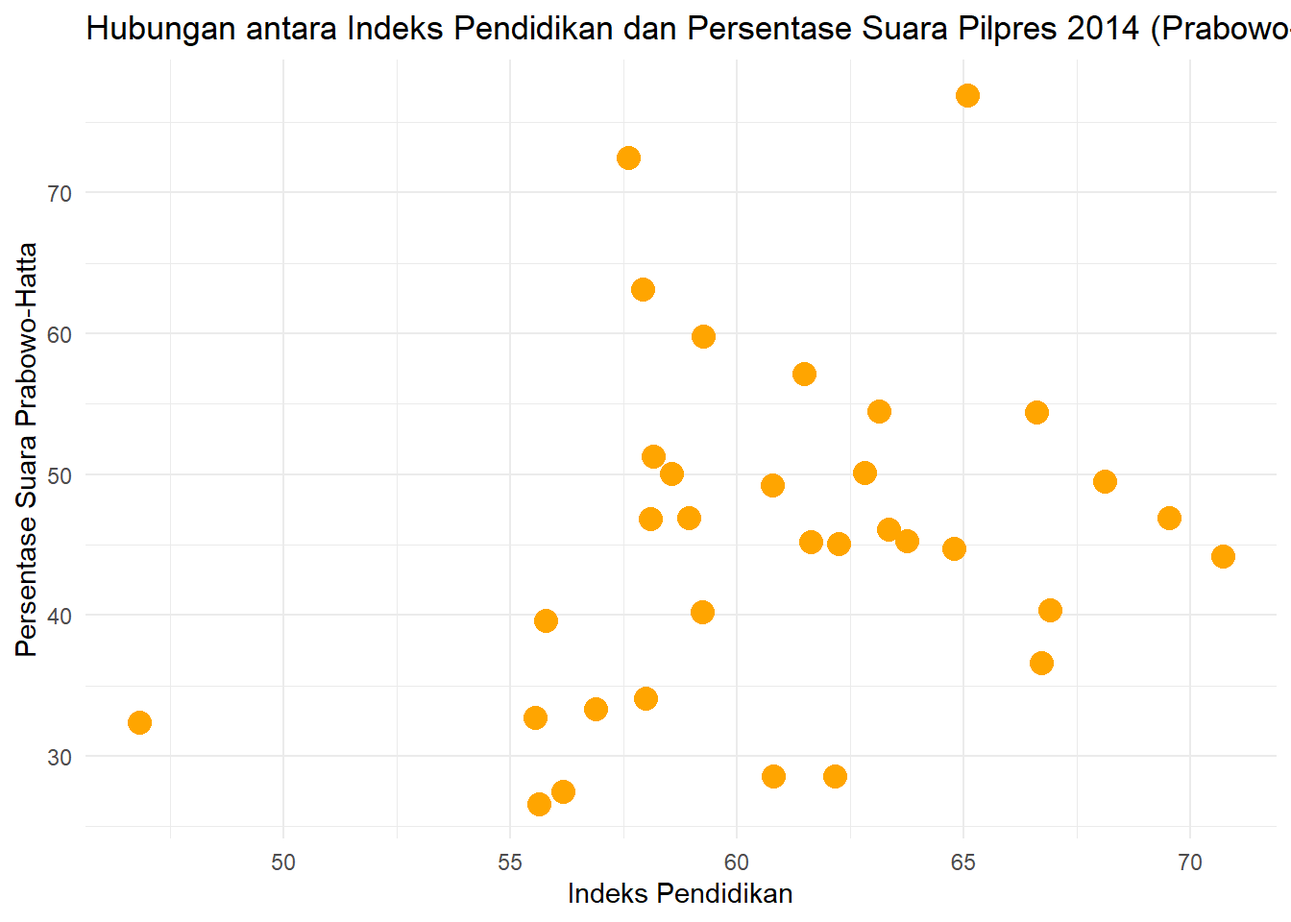
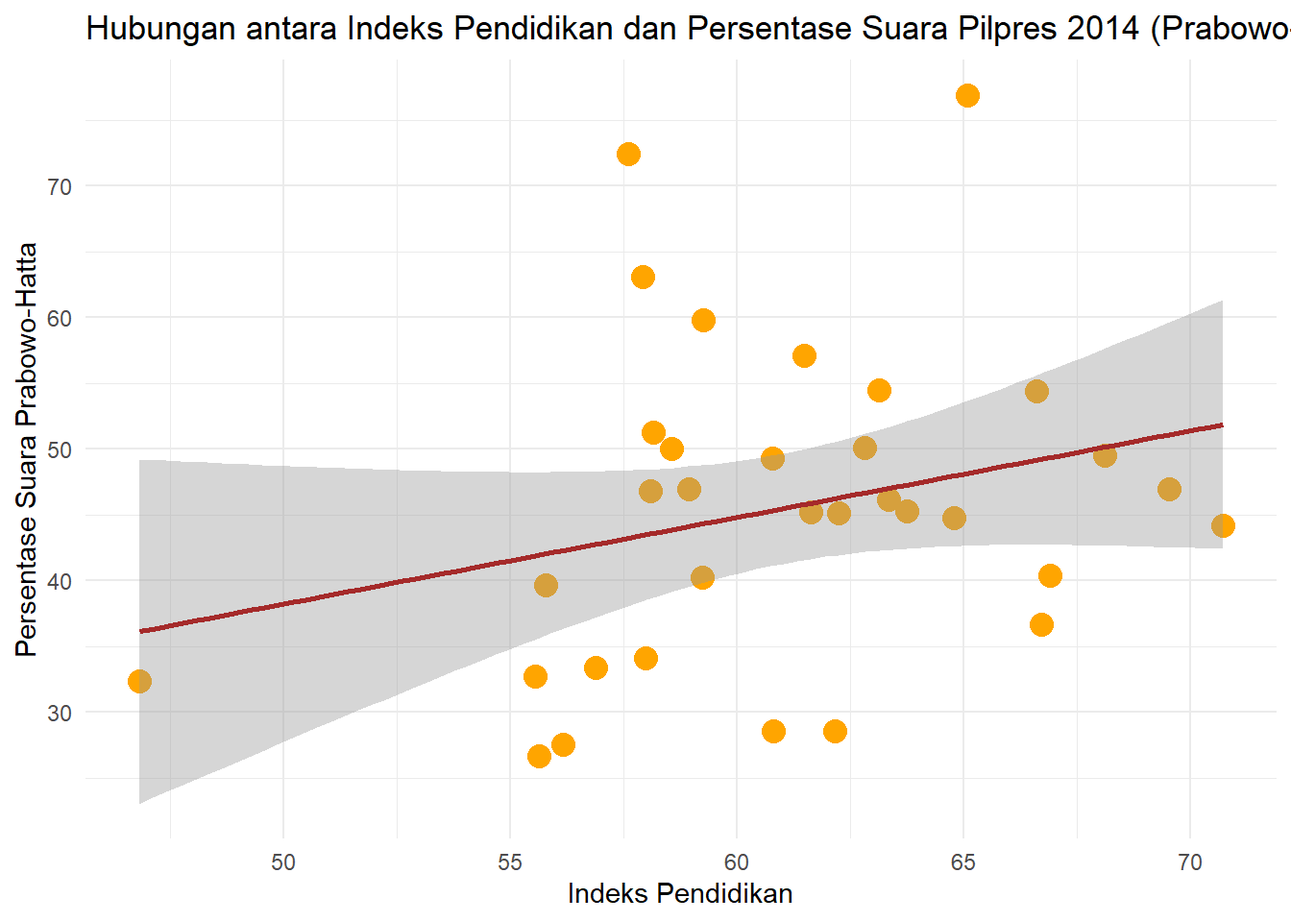
Add files via upload

diff --git a/index.html b/index.html
@@ -193,9 +193,9 @@ window.Quarto = {
 <span id="cb1-5"><a href="#cb1-5" aria-hidden="true" tabindex="-1"></a><span class="fu">library</span>(<span class="st">'broom'</span>)</span>
 <span id="cb1-6"><a href="#cb1-6" aria-hidden="true" tabindex="-1"></a><span class="fu">library</span>(<span class="st">'ggpubr'</span>)</span>
 <span id="cb1-7"><a href="#cb1-7" aria-hidden="true" tabindex="-1"></a><span class="fu">library</span>(<span class="st">'car'</span>)</span>
-<span id="cb1-8"><a href="#cb1-8" aria-hidden="true" tabindex="-1"></a><span class="fu">library</span>(<span class="st">'carData'</span>)</span></code><button title="Copy to Clipboard" class="code-copy-button"><i class="bi"></i></button></pre></div>
+<span id="cb1-8"><a href="#cb1-8" aria-hidden="true" tabindex="-1"></a><span class="fu">library</span>(<span class="st">'carData'</span>)</span>
+<span id="cb1-9"><a href="#cb1-9" aria-hidden="true" tabindex="-1"></a><span class="fu">library</span>(<span class="st">'lattice'</span>)</span></code><button title="Copy to Clipboard" class="code-copy-button"><i class="bi"></i></button></pre></div>
 </div>
-<p>── Attaching core tidyverse packages ────────────────────────────────────── tidyverse 2.0.0 ── ✔ dplyr 1.1.4 ✔ readr 2.1.4 ✔ forcats 1.0.0 ✔ stringr 1.5.0 ✔ ggplot2 3.4.4 ✔ tibble 3.2.1 ✔ lubridate 1.9.2 ✔ tidyr 1.3.0 ✔ purrr 1.0.2</p>
 </section>
 </section>
 <section id="studi-pustaka" class="level2" data-number="2">
@@ -608,9 +608,13 @@ window.Quarto = {
 <div class="sourceCode cell-code" id="cb4"><pre class="sourceCode r code-with-copy"><code class="sourceCode r"><span id="cb4-1"><a href="#cb4-1" aria-hidden="true" tabindex="-1"></a><span class="co">#scatter plor dengan ggplot2</span></span>
 <span id="cb4-2"><a href="#cb4-2" aria-hidden="true" tabindex="-1"></a><span class="fu">ggplot</span>(<span class="at">data=</span>dat, <span class="fu">aes</span>(<span class="at">x =</span> Edu, <span class="at">y =</span> PrbwHt)) <span class="sc">+</span></span>
 <span id="cb4-3"><a href="#cb4-3" aria-hidden="true" tabindex="-1"></a>  <span class="fu">geom_point</span>(<span class="at">color=</span><span class="st">"orange"</span>,<span class="at">size=</span><span class="dv">4</span>) <span class="sc">+</span></span>
-<span id="cb4-4"><a href="#cb4-4" aria-hidden="true" tabindex="-1"></a>  <span class="fu">labs</span>(<span class="at">x =</span> <span class="st">"Indeks Pendidikan"</span>, <span class="at">y =</span> <span class="st">"Persentase Suara Prabowo-Hatta"</span>, </span>
-<span id="cb4-5"><a href="#cb4-5" aria-hidden="true" tabindex="-1"></a>       <span class="at">title =</span> <span class="st">"Hubungan antara Indeks Pendidikan dan Persentase Suara Pilpres 2014 (Prabowo-Hatta)"</span>) <span class="sc">+</span></span>
-<span id="cb4-6"><a href="#cb4-6" aria-hidden="true" tabindex="-1"></a>  <span class="fu">theme_minimal</span>()</span></code><button title="Copy to Clipboard" class="code-copy-button"><i class="bi"></i></button></pre></div>
+<span id="cb4-4"><a href="#cb4-4" aria-hidden="true" tabindex="-1"></a>  <span class="fu">geom_smooth</span>(<span class="at">method =</span> <span class="st">"lm"</span>,<span class="at">color=</span><span class="st">'brown'</span>) <span class="sc">+</span></span>
+<span id="cb4-5"><a href="#cb4-5" aria-hidden="true" tabindex="-1"></a>  <span class="fu">labs</span>(<span class="at">x =</span> <span class="st">"Indeks Pendidikan"</span>, <span class="at">y =</span> <span class="st">"Persentase Suara Prabowo-Hatta"</span>, </span>
+<span id="cb4-6"><a href="#cb4-6" aria-hidden="true" tabindex="-1"></a><span class="at">title =</span> <span class="st">"Hubungan antara Indeks Pendidikan dan Persentase Suara Pilpres 2014 (Prabowo-Hatta)"</span>) <span class="sc">+</span></span>
+<span id="cb4-7"><a href="#cb4-7" aria-hidden="true" tabindex="-1"></a>  <span class="fu">theme_minimal</span>()</span></code><button title="Copy to Clipboard" class="code-copy-button"><i class="bi"></i></button></pre></div>
+<div class="cell-output cell-output-stderr">
+<pre><code>`geom_smooth()` using formula = 'y ~ x'</code></pre>
+</div>
 <div class="cell-output-display">
 <div id="fig-mpg" class="quarto-figure quarto-figure-center quarto-float anchored">
 <figure class="quarto-float quarto-float-fig figure">
@@ -628,12 +632,16 @@ Figure&nbsp;1: Hubungan antara Indeks Pendidikan dan Persentase Suara Pasangan 0
 <section id="paslon-02-jokowi-jusuf-kalla" class="level4" data-number="3.3.2">
 <h4 data-number="3.3.2" class="anchored" data-anchor-id="paslon-02-jokowi-jusuf-kalla"><span class="header-section-number">3.3.2</span> Paslon 02 (Jokowi-Jusuf Kalla)</h4>
 <div class="cell">
-<div class="sourceCode cell-code" id="cb5"><pre class="sourceCode r code-with-copy"><code class="sourceCode r"><span id="cb5-1"><a href="#cb5-1" aria-hidden="true" tabindex="-1"></a><span class="co">#scatter plor dengan ggplot2</span></span>
-<span id="cb5-2"><a href="#cb5-2" aria-hidden="true" tabindex="-1"></a><span class="fu">ggplot</span>(<span class="at">data=</span>dat, <span class="fu">aes</span>(<span class="at">x =</span> Edu, <span class="at">y =</span> JkwJk)) <span class="sc">+</span></span>
-<span id="cb5-3"><a href="#cb5-3" aria-hidden="true" tabindex="-1"></a>  <span class="fu">geom_point</span>(<span class="at">color=</span><span class="st">"red"</span>,<span class="at">size=</span><span class="dv">4</span>) <span class="sc">+</span></span>
-<span id="cb5-4"><a href="#cb5-4" aria-hidden="true" tabindex="-1"></a>  <span class="fu">labs</span>(<span class="at">x =</span> <span class="st">"Indeks Pendidikan"</span>, <span class="at">y =</span> <span class="st">"Persentase Suara Jokowi-JK"</span>, </span>
-<span id="cb5-5"><a href="#cb5-5" aria-hidden="true" tabindex="-1"></a>       <span class="at">title =</span> <span class="st">"Hubungan antara Indeks Pendidikan dan Persentase Suara Pilpres 2014 (Jokowi-JK)"</span>) <span class="sc">+</span></span>
-<span id="cb5-6"><a href="#cb5-6" aria-hidden="true" tabindex="-1"></a>  <span class="fu">theme_minimal</span>()</span></code><button title="Copy to Clipboard" class="code-copy-button"><i class="bi"></i></button></pre></div>
+<div class="sourceCode cell-code" id="cb6"><pre class="sourceCode r code-with-copy"><code class="sourceCode r"><span id="cb6-1"><a href="#cb6-1" aria-hidden="true" tabindex="-1"></a><span class="co">#scatter plor dengan ggplot2</span></span>
+<span id="cb6-2"><a href="#cb6-2" aria-hidden="true" tabindex="-1"></a><span class="fu">ggplot</span>(<span class="at">data=</span>dat, <span class="fu">aes</span>(<span class="at">x =</span> Edu, <span class="at">y =</span> JkwJk)) <span class="sc">+</span></span>
+<span id="cb6-3"><a href="#cb6-3" aria-hidden="true" tabindex="-1"></a>  <span class="fu">geom_point</span>(<span class="at">color=</span><span class="st">"red"</span>,<span class="at">size=</span><span class="dv">4</span>) <span class="sc">+</span></span>
+<span id="cb6-4"><a href="#cb6-4" aria-hidden="true" tabindex="-1"></a>  <span class="fu">geom_smooth</span>(<span class="at">method =</span> <span class="st">"lm"</span>,<span class="at">color=</span><span class="st">'blue'</span>) <span class="sc">+</span></span>
+<span id="cb6-5"><a href="#cb6-5" aria-hidden="true" tabindex="-1"></a>  <span class="fu">labs</span>(<span class="at">x =</span> <span class="st">"Indeks Pendidikan"</span>, <span class="at">y =</span> <span class="st">"Persentase Suara Jokowi-JK"</span>, </span>
+<span id="cb6-6"><a href="#cb6-6" aria-hidden="true" tabindex="-1"></a>       <span class="at">title =</span> <span class="st">"Hubungan antara Indeks Pendidikan dan Persentase Suara Pilpres 2014 (Jokowi-JK)"</span>) <span class="sc">+</span></span>
+<span id="cb6-7"><a href="#cb6-7" aria-hidden="true" tabindex="-1"></a>  <span class="fu">theme_minimal</span>()</span></code><button title="Copy to Clipboard" class="code-copy-button"><i class="bi"></i></button></pre></div>
+<div class="cell-output cell-output-stderr">
+<pre><code>`geom_smooth()` using formula = 'y ~ x'</code></pre>
+</div>
 <div class="cell-output-display">
 <div id="fig-mpg2" class="quarto-figure quarto-figure-center quarto-float anchored">
 <figure class="quarto-float quarto-float-fig figure">
@@ -654,16 +662,16 @@ Figure&nbsp;2: Hubungan antara Indeks Pendidikan dan Persentase Suara Pasangan 0
 <section id="paslon-01-prabowo-hatta-1" class="level4" data-number="3.4.1">
 <h4 data-number="3.4.1" class="anchored" data-anchor-id="paslon-01-prabowo-hatta-1"><span class="header-section-number">3.4.1</span> Paslon 01 (Prabowo-Hatta)</h4>
 <div class="cell">
-<div class="sourceCode cell-code" id="cb6"><pre class="sourceCode r code-with-copy"><code class="sourceCode r"><span id="cb6-1"><a href="#cb6-1" aria-hidden="true" tabindex="-1"></a><span class="fu">library</span>(<span class="st">'readxl'</span>)</span>
-<span id="cb6-2"><a href="#cb6-2" aria-hidden="true" tabindex="-1"></a>dat<span class="ot">&lt;-</span><span class="fu">read_excel</span>(<span class="st">"C:/Users/yusri/Documents/UAS Metopel/data uas.xlsx"</span>)</span>
-<span id="cb6-3"><a href="#cb6-3" aria-hidden="true" tabindex="-1"></a></span>
-<span id="cb6-4"><a href="#cb6-4" aria-hidden="true" tabindex="-1"></a>reg1<span class="ot">&lt;-</span><span class="fu">lm</span>(PrbwHt<span class="sc">~</span>Edu,<span class="at">data=</span>dat)</span>
-<span id="cb6-5"><a href="#cb6-5" aria-hidden="true" tabindex="-1"></a><span class="co">#Membuat Error</span></span>
-<span id="cb6-6"><a href="#cb6-6" aria-hidden="true" tabindex="-1"></a>dat<span class="sc">$</span>u<span class="ot">&lt;-</span><span class="fu">resid</span>(reg1)</span>
-<span id="cb6-7"><a href="#cb6-7" aria-hidden="true" tabindex="-1"></a><span class="fu">plot</span>(dat<span class="sc">$</span>PrbwHt,dat<span class="sc">$</span>u,<span class="at">xlab=</span><span class="st">"Tingkat Pendidikan"</span>,<span class="at">ylab=</span><span class="st">"Persentase Suara Prabowo-Hatta"</span>)</span>
-<span id="cb6-8"><a href="#cb6-8" aria-hidden="true" tabindex="-1"></a><span class="fu">abline</span>(<span class="at">h=</span><span class="dv">0</span>,<span class="at">col=</span><span class="st">"orange"</span>,</span>
-<span id="cb6-9"><a href="#cb6-9" aria-hidden="true" tabindex="-1"></a>  <span class="at">lty=</span><span class="st">"dashed"</span>,</span>
-<span id="cb6-10"><a href="#cb6-10" aria-hidden="true" tabindex="-1"></a>  <span class="at">lwd=</span><span class="st">"3"</span>)</span></code><button title="Copy to Clipboard" class="code-copy-button"><i class="bi"></i></button></pre></div>
+<div class="sourceCode cell-code" id="cb8"><pre class="sourceCode r code-with-copy"><code class="sourceCode r"><span id="cb8-1"><a href="#cb8-1" aria-hidden="true" tabindex="-1"></a><span class="fu">library</span>(<span class="st">'readxl'</span>)</span>
+<span id="cb8-2"><a href="#cb8-2" aria-hidden="true" tabindex="-1"></a>dat<span class="ot">&lt;-</span><span class="fu">read_excel</span>(<span class="st">"C:/Users/yusri/Documents/UAS Metopel/data uas.xlsx"</span>)</span>
+<span id="cb8-3"><a href="#cb8-3" aria-hidden="true" tabindex="-1"></a></span>
+<span id="cb8-4"><a href="#cb8-4" aria-hidden="true" tabindex="-1"></a>reg1<span class="ot">&lt;-</span><span class="fu">lm</span>(PrbwHt<span class="sc">~</span>Edu,<span class="at">data=</span>dat)</span>
+<span id="cb8-5"><a href="#cb8-5" aria-hidden="true" tabindex="-1"></a><span class="co">#Membuat Error</span></span>
+<span id="cb8-6"><a href="#cb8-6" aria-hidden="true" tabindex="-1"></a>dat<span class="sc">$</span>u<span class="ot">&lt;-</span><span class="fu">resid</span>(reg1)</span>
+<span id="cb8-7"><a href="#cb8-7" aria-hidden="true" tabindex="-1"></a><span class="fu">plot</span>(dat<span class="sc">$</span>PrbwHt,dat<span class="sc">$</span>u,<span class="at">xlab=</span><span class="st">"Tingkat Pendidikan"</span>,<span class="at">ylab=</span><span class="st">"Persentase Suara Prabowo-Hatta"</span>)</span>
+<span id="cb8-8"><a href="#cb8-8" aria-hidden="true" tabindex="-1"></a><span class="fu">abline</span>(<span class="at">h=</span><span class="dv">0</span>,<span class="at">col=</span><span class="st">"orange"</span>,</span>
+<span id="cb8-9"><a href="#cb8-9" aria-hidden="true" tabindex="-1"></a>  <span class="at">lty=</span><span class="st">"dashed"</span>,</span>
+<span id="cb8-10"><a href="#cb8-10" aria-hidden="true" tabindex="-1"></a>  <span class="at">lwd=</span><span class="st">"3"</span>)</span></code><button title="Copy to Clipboard" class="code-copy-button"><i class="bi"></i></button></pre></div>
 <div class="cell-output-display">
 <div>
 <figure class="figure">
@@ -676,18 +684,18 @@ Figure&nbsp;2: Hubungan antara Indeks Pendidikan dan Persentase Suara Pasangan 0
 <section id="paslon-02-jokowi-jusuf-kalla-1" class="level4" data-number="3.4.2">
 <h4 data-number="3.4.2" class="anchored" data-anchor-id="paslon-02-jokowi-jusuf-kalla-1"><span class="header-section-number">3.4.2</span> Paslon 02 (Jokowi-Jusuf Kalla)</h4>
 <div class="cell">
-<div class="sourceCode cell-code" id="cb7"><pre class="sourceCode r code-with-copy"><code class="sourceCode r"><span id="cb7-1"><a href="#cb7-1" aria-hidden="true" tabindex="-1"></a><span class="fu">library</span>(<span class="st">'readxl'</span>)</span>
-<span id="cb7-2"><a href="#cb7-2" aria-hidden="true" tabindex="-1"></a>dat<span class="ot">&lt;-</span><span class="fu">read_excel</span>(<span class="st">"C:/Users/yusri/Documents/UAS Metopel/data uas.xlsx"</span>)</span>
-<span id="cb7-3"><a href="#cb7-3" aria-hidden="true" tabindex="-1"></a></span>
-<span id="cb7-4"><a href="#cb7-4" aria-hidden="true" tabindex="-1"></a>reg1<span class="ot">&lt;-</span><span class="fu">lm</span>(JkwJk<span class="sc">~</span>Edu,<span class="at">data=</span>dat)</span>
-<span id="cb7-5"><a href="#cb7-5" aria-hidden="true" tabindex="-1"></a><span class="co">#Membuat Error</span></span>
-<span id="cb7-6"><a href="#cb7-6" aria-hidden="true" tabindex="-1"></a>dat<span class="sc">$</span>u<span class="ot">&lt;-</span><span class="fu">resid</span>(reg1)</span>
-<span id="cb7-7"><a href="#cb7-7" aria-hidden="true" tabindex="-1"></a><span class="co">#Plot Error</span></span>
-<span id="cb7-8"><a href="#cb7-8" aria-hidden="true" tabindex="-1"></a><span class="fu">plot</span>(dat<span class="sc">$</span>JkwJk,dat<span class="sc">$</span>u,<span class="at">xlab=</span><span class="st">"Tingkat Pendidikan"</span>,<span class="at">ylab=</span><span class="st">"Persentase Suara Jokowi-JK"</span>)</span>
-<span id="cb7-9"><a href="#cb7-9" aria-hidden="true" tabindex="-1"></a><span class="fu">abline</span>(<span class="at">h=</span><span class="dv">0</span>,</span>
-<span id="cb7-10"><a href="#cb7-10" aria-hidden="true" tabindex="-1"></a>  <span class="at">col=</span><span class="st">"red"</span>,</span>
-<span id="cb7-11"><a href="#cb7-11" aria-hidden="true" tabindex="-1"></a>  <span class="at">lty=</span><span class="st">"dashed"</span>,</span>
-<span id="cb7-12"><a href="#cb7-12" aria-hidden="true" tabindex="-1"></a>  <span class="at">lwd=</span><span class="st">"3"</span>)</span></code><button title="Copy to Clipboard" class="code-copy-button"><i class="bi"></i></button></pre></div>
+<div class="sourceCode cell-code" id="cb9"><pre class="sourceCode r code-with-copy"><code class="sourceCode r"><span id="cb9-1"><a href="#cb9-1" aria-hidden="true" tabindex="-1"></a><span class="fu">library</span>(<span class="st">'readxl'</span>)</span>
+<span id="cb9-2"><a href="#cb9-2" aria-hidden="true" tabindex="-1"></a>dat<span class="ot">&lt;-</span><span class="fu">read_excel</span>(<span class="st">"C:/Users/yusri/Documents/UAS Metopel/data uas.xlsx"</span>)</span>
+<span id="cb9-3"><a href="#cb9-3" aria-hidden="true" tabindex="-1"></a></span>
+<span id="cb9-4"><a href="#cb9-4" aria-hidden="true" tabindex="-1"></a>reg1<span class="ot">&lt;-</span><span class="fu">lm</span>(JkwJk<span class="sc">~</span>Edu,<span class="at">data=</span>dat)</span>
+<span id="cb9-5"><a href="#cb9-5" aria-hidden="true" tabindex="-1"></a><span class="co">#Membuat Error</span></span>
+<span id="cb9-6"><a href="#cb9-6" aria-hidden="true" tabindex="-1"></a>dat<span class="sc">$</span>u<span class="ot">&lt;-</span><span class="fu">resid</span>(reg1)</span>
+<span id="cb9-7"><a href="#cb9-7" aria-hidden="true" tabindex="-1"></a><span class="co">#Plot Error</span></span>
+<span id="cb9-8"><a href="#cb9-8" aria-hidden="true" tabindex="-1"></a><span class="fu">plot</span>(dat<span class="sc">$</span>JkwJk,dat<span class="sc">$</span>u,<span class="at">xlab=</span><span class="st">"Tingkat Pendidikan"</span>,<span class="at">ylab=</span><span class="st">"Persentase Suara Jokowi-JK"</span>)</span>
+<span id="cb9-9"><a href="#cb9-9" aria-hidden="true" tabindex="-1"></a><span class="fu">abline</span>(<span class="at">h=</span><span class="dv">0</span>,</span>
+<span id="cb9-10"><a href="#cb9-10" aria-hidden="true" tabindex="-1"></a>  <span class="at">col=</span><span class="st">"red"</span>,</span>
+<span id="cb9-11"><a href="#cb9-11" aria-hidden="true" tabindex="-1"></a>  <span class="at">lty=</span><span class="st">"dashed"</span>,</span>
+<span id="cb9-12"><a href="#cb9-12" aria-hidden="true" tabindex="-1"></a>  <span class="at">lwd=</span><span class="st">"3"</span>)</span></code><button title="Copy to Clipboard" class="code-copy-button"><i class="bi"></i></button></pre></div>
 <div class="cell-output-display">
 <div>
 <figure class="figure">
@@ -698,8 +706,44 @@ Figure&nbsp;2: Hubungan antara Indeks Pendidikan dan Persentase Suara Pasangan 0
 </div>
 </section>
 </section>
-<section id="metode-analisis" class="level3" data-number="3.5">
-<h3 data-number="3.5" class="anchored" data-anchor-id="metode-analisis"><span class="header-section-number">3.5</span> Metode analisis</h3>
+<section id="plot-dengan-dua-variabel-dependent" class="level3" data-number="3.5">
+<h3 data-number="3.5" class="anchored" data-anchor-id="plot-dengan-dua-variabel-dependent"><span class="header-section-number">3.5</span> Plot dengan dua variabel dependent</h3>
+<p><strong>Plot dengan ggplot2</strong></p>
+<div class="cell">
+<div class="sourceCode cell-code" id="cb10"><pre class="sourceCode r code-with-copy"><code class="sourceCode r"><span id="cb10-1"><a href="#cb10-1" aria-hidden="true" tabindex="-1"></a><span class="fu">library</span>(<span class="st">'readxl'</span>)</span>
+<span id="cb10-2"><a href="#cb10-2" aria-hidden="true" tabindex="-1"></a>dat<span class="ot">&lt;-</span><span class="fu">read_excel</span>(<span class="st">"C:/Users/yusri/Documents/UAS Metopel/data uas.xlsx"</span>)</span>
+<span id="cb10-3"><a href="#cb10-3" aria-hidden="true" tabindex="-1"></a><span class="fu">library</span>(<span class="st">'ggplot2'</span>)</span>
+<span id="cb10-4"><a href="#cb10-4" aria-hidden="true" tabindex="-1"></a><span class="fu">ggplot</span>(<span class="at">data=</span>dat, <span class="fu">aes</span>(Edu)) <span class="sc">+</span></span>
+<span id="cb10-5"><a href="#cb10-5" aria-hidden="true" tabindex="-1"></a>  <span class="fu">geom_line</span>(<span class="fu">aes</span>(<span class="at">y =</span> PrbwHt, <span class="at">colour =</span> <span class="st">"orange"</span>)) <span class="sc">+</span></span>
+<span id="cb10-6"><a href="#cb10-6" aria-hidden="true" tabindex="-1"></a>  <span class="fu">geom_line</span>(<span class="fu">aes</span>(<span class="at">y =</span> JkwJk, <span class="at">colour =</span> <span class="st">"red"</span>)) <span class="sc">+</span></span>
+<span id="cb10-7"><a href="#cb10-7" aria-hidden="true" tabindex="-1"></a>  <span class="fu">labs</span>(<span class="at">colour =</span> <span class="st">"Variabel"</span>)<span class="sc">+</span></span>
+<span id="cb10-8"><a href="#cb10-8" aria-hidden="true" tabindex="-1"></a><span class="fu">theme_minimal</span>()</span></code><button title="Copy to Clipboard" class="code-copy-button"><i class="bi"></i></button></pre></div>
+<div class="cell-output-display">
+<div>
+<figure class="figure">
+<p><img src="index_files/figure-html/unnamed-chunk-7-1.png" class="img-fluid figure-img" width="672"></p>
+</figure>
+</div>
+</div>
+</div>
+<p><strong>Plot dengan Lattice</strong></p>
+<div class="cell">
+<div class="sourceCode cell-code" id="cb11"><pre class="sourceCode r code-with-copy"><code class="sourceCode r"><span id="cb11-1"><a href="#cb11-1" aria-hidden="true" tabindex="-1"></a><span class="fu">library</span>(<span class="st">'readxl'</span>)</span>
+<span id="cb11-2"><a href="#cb11-2" aria-hidden="true" tabindex="-1"></a>dat<span class="ot">&lt;-</span><span class="fu">read_excel</span>(<span class="st">"C:/Users/yusri/Documents/UAS Metopel/data uas.xlsx"</span>)</span>
+<span id="cb11-3"><a href="#cb11-3" aria-hidden="true" tabindex="-1"></a><span class="fu">library</span>(<span class="st">'lattice'</span>)</span>
+<span id="cb11-4"><a href="#cb11-4" aria-hidden="true" tabindex="-1"></a><span class="co"># Membuat plot untuk Y1 dan Y2 terhadap X</span></span>
+<span id="cb11-5"><a href="#cb11-5" aria-hidden="true" tabindex="-1"></a><span class="fu">xyplot</span>(PrbwHt <span class="sc">+</span> JkwJk <span class="sc">~</span> Edu, <span class="at">data =</span> dat, <span class="at">type =</span> <span class="st">"p"</span>,<span class="at">col=</span><span class="fu">c</span>(<span class="st">"orange"</span>, <span class="st">"red"</span>), <span class="at">auto.key =</span> <span class="fu">list</span>(<span class="at">points =</span> <span class="cn">FALSE</span>, <span class="at">lines =</span> <span class="cn">TRUE</span>, <span class="at">space =</span> <span class="st">"right"</span>))</span></code><button title="Copy to Clipboard" class="code-copy-button"><i class="bi"></i></button></pre></div>
+<div class="cell-output-display">
+<div>
+<figure class="figure">
+<p><img src="index_files/figure-html/unnamed-chunk-8-1.png" class="img-fluid figure-img" width="672"></p>
+</figure>
+</div>
+</div>
+</div>
+</section>
+<section id="metode-analisis" class="level3" data-number="3.6">
+<h3 data-number="3.6" class="anchored" data-anchor-id="metode-analisis"><span class="header-section-number">3.6</span> Metode analisis</h3>
 <p>Metode yang dipilih adalah regresi univariat atau Ordinary Least Square (OLS) dengan 1 variabel independen. Penelitian ini bertujuan untuk mencari pengaruh Indeks Pendidikan terhadap Persentase suara sah tiap Calon Presiden. Spesifikasi yang dilakukan adalah:</p>
 <p><span class="math display">\[
 y_{t}=\beta_0 + \beta_1 x_t+\mu_t
@@ -846,10 +890,10 @@ y_{t}= 94.7374 + (-0.6590 X) + \mu_t
 <section id="paslon-01-prabowo-hatta-3" class="level5" data-number="4.3.1.1">
 <h5 data-number="4.3.1.1" class="anchored" data-anchor-id="paslon-01-prabowo-hatta-3"><span class="header-section-number">4.3.1.1</span> Paslon 01 (Prabowo-Hatta)</h5>
 <div class="cell">
-<div class="sourceCode cell-code" id="cb8"><pre class="sourceCode r code-with-copy"><code class="sourceCode r"><span id="cb8-1"><a href="#cb8-1" aria-hidden="true" tabindex="-1"></a><span class="co">#Pemodelan Regresi</span></span>
-<span id="cb8-2"><a href="#cb8-2" aria-hidden="true" tabindex="-1"></a>reg1<span class="ot">&lt;-</span><span class="fu">lm</span>(PrbwHt<span class="sc">~</span>Edu,<span class="at">data=</span>dat)</span>
-<span id="cb8-3"><a href="#cb8-3" aria-hidden="true" tabindex="-1"></a><span class="co">#Interpretasi Model</span></span>
-<span id="cb8-4"><a href="#cb8-4" aria-hidden="true" tabindex="-1"></a><span class="fu">summary</span>(reg1)</span></code><button title="Copy to Clipboard" class="code-copy-button"><i class="bi"></i></button></pre></div>
+<div class="sourceCode cell-code" id="cb12"><pre class="sourceCode r code-with-copy"><code class="sourceCode r"><span id="cb12-1"><a href="#cb12-1" aria-hidden="true" tabindex="-1"></a><span class="co">#Pemodelan Regresi</span></span>
+<span id="cb12-2"><a href="#cb12-2" aria-hidden="true" tabindex="-1"></a>reg1<span class="ot">&lt;-</span><span class="fu">lm</span>(PrbwHt<span class="sc">~</span>Edu,<span class="at">data=</span>dat)</span>
+<span id="cb12-3"><a href="#cb12-3" aria-hidden="true" tabindex="-1"></a><span class="co">#Interpretasi Model</span></span>
+<span id="cb12-4"><a href="#cb12-4" aria-hidden="true" tabindex="-1"></a><span class="fu">summary</span>(reg1)</span></code><button title="Copy to Clipboard" class="code-copy-button"><i class="bi"></i></button></pre></div>
 <div class="cell-output cell-output-stdout">
 <pre><code>
 Call:
@@ -873,10 +917,10 @@ F-statistic: 2.363 on 1 and 31 DF,  p-value: 0.1344</code></pre>
 <section id="paslon-02-jokowi-jusuf-kalla-3" class="level5" data-number="4.3.1.2">
 <h5 data-number="4.3.1.2" class="anchored" data-anchor-id="paslon-02-jokowi-jusuf-kalla-3"><span class="header-section-number">4.3.1.2</span> Paslon 02 (Jokowi-Jusuf Kalla)</h5>
 <div class="cell">
-<div class="sourceCode cell-code" id="cb10"><pre class="sourceCode r code-with-copy"><code class="sourceCode r"><span id="cb10-1"><a href="#cb10-1" aria-hidden="true" tabindex="-1"></a><span class="co">#Pemodelan Regresi</span></span>
-<span id="cb10-2"><a href="#cb10-2" aria-hidden="true" tabindex="-1"></a>reg1<span class="ot">&lt;-</span><span class="fu">lm</span>(JkwJk<span class="sc">~</span>Edu,<span class="at">data=</span>dat)</span>
-<span id="cb10-3"><a href="#cb10-3" aria-hidden="true" tabindex="-1"></a><span class="co">#Interpretasi Model</span></span>
-<span id="cb10-4"><a href="#cb10-4" aria-hidden="true" tabindex="-1"></a><span class="fu">summary</span>(reg1)</span></code><button title="Copy to Clipboard" class="code-copy-button"><i class="bi"></i></button></pre></div>
+<div class="sourceCode cell-code" id="cb14"><pre class="sourceCode r code-with-copy"><code class="sourceCode r"><span id="cb14-1"><a href="#cb14-1" aria-hidden="true" tabindex="-1"></a><span class="co">#Pemodelan Regresi</span></span>
+<span id="cb14-2"><a href="#cb14-2" aria-hidden="true" tabindex="-1"></a>reg1<span class="ot">&lt;-</span><span class="fu">lm</span>(JkwJk<span class="sc">~</span>Edu,<span class="at">data=</span>dat)</span>
+<span id="cb14-3"><a href="#cb14-3" aria-hidden="true" tabindex="-1"></a><span class="co">#Interpretasi Model</span></span>
+<span id="cb14-4"><a href="#cb14-4" aria-hidden="true" tabindex="-1"></a><span class="fu">summary</span>(reg1)</span></code><button title="Copy to Clipboard" class="code-copy-button"><i class="bi"></i></button></pre></div>
 <div class="cell-output cell-output-stdout">
 <pre><code>
 Call:
@@ -905,16 +949,16 @@ F-statistic: 2.363 on 1 and 31 DF,  p-value: 0.1344</code></pre>
 <section id="paslon-01-prabowo-hatta-4" class="level5" data-number="4.3.2.1">
 <h5 data-number="4.3.2.1" class="anchored" data-anchor-id="paslon-01-prabowo-hatta-4"><span class="header-section-number">4.3.2.1</span> Paslon 01 (Prabowo-Hatta)</h5>
 <div class="cell">
-<div class="sourceCode cell-code" id="cb12"><pre class="sourceCode r code-with-copy"><code class="sourceCode r"><span id="cb12-1"><a href="#cb12-1" aria-hidden="true" tabindex="-1"></a><span class="co">#Regresi model 2</span></span>
-<span id="cb12-2"><a href="#cb12-2" aria-hidden="true" tabindex="-1"></a><span class="fu">library</span>(<span class="st">'car'</span>)</span>
-<span id="cb12-3"><a href="#cb12-3" aria-hidden="true" tabindex="-1"></a><span class="fu">library</span>(<span class="st">'carData'</span>)</span>
-<span id="cb12-4"><a href="#cb12-4" aria-hidden="true" tabindex="-1"></a><span class="fu">library</span>(<span class="st">'readxl'</span>)</span>
-<span id="cb12-5"><a href="#cb12-5" aria-hidden="true" tabindex="-1"></a>dat<span class="ot">&lt;-</span><span class="fu">read_excel</span>(<span class="st">"C:/Users/yusri/Documents/UAS Metopel/data uas.xlsx"</span>)</span>
-<span id="cb12-6"><a href="#cb12-6" aria-hidden="true" tabindex="-1"></a></span>
-<span id="cb12-7"><a href="#cb12-7" aria-hidden="true" tabindex="-1"></a><span class="co">#Pemodelan Regresi</span></span>
-<span id="cb12-8"><a href="#cb12-8" aria-hidden="true" tabindex="-1"></a>model <span class="ot">&lt;-</span> <span class="fu">lm</span>(PrbwHt <span class="sc">~</span> Edu, <span class="at">data =</span> dat)</span>
-<span id="cb12-9"><a href="#cb12-9" aria-hidden="true" tabindex="-1"></a><span class="co">#Interpretasi Model</span></span>
-<span id="cb12-10"><a href="#cb12-10" aria-hidden="true" tabindex="-1"></a><span class="fu">summary</span>(model)</span></code><button title="Copy to Clipboard" class="code-copy-button"><i class="bi"></i></button></pre></div>
+<div class="sourceCode cell-code" id="cb16"><pre class="sourceCode r code-with-copy"><code class="sourceCode r"><span id="cb16-1"><a href="#cb16-1" aria-hidden="true" tabindex="-1"></a><span class="co">#Regresi model 2</span></span>
+<span id="cb16-2"><a href="#cb16-2" aria-hidden="true" tabindex="-1"></a><span class="fu">library</span>(<span class="st">'car'</span>)</span>
+<span id="cb16-3"><a href="#cb16-3" aria-hidden="true" tabindex="-1"></a><span class="fu">library</span>(<span class="st">'carData'</span>)</span>
+<span id="cb16-4"><a href="#cb16-4" aria-hidden="true" tabindex="-1"></a><span class="fu">library</span>(<span class="st">'readxl'</span>)</span>
+<span id="cb16-5"><a href="#cb16-5" aria-hidden="true" tabindex="-1"></a>dat<span class="ot">&lt;-</span><span class="fu">read_excel</span>(<span class="st">"C:/Users/yusri/Documents/UAS Metopel/data uas.xlsx"</span>)</span>
+<span id="cb16-6"><a href="#cb16-6" aria-hidden="true" tabindex="-1"></a></span>
+<span id="cb16-7"><a href="#cb16-7" aria-hidden="true" tabindex="-1"></a><span class="co">#Pemodelan Regresi</span></span>
+<span id="cb16-8"><a href="#cb16-8" aria-hidden="true" tabindex="-1"></a>model <span class="ot">&lt;-</span> <span class="fu">lm</span>(PrbwHt <span class="sc">~</span> Edu, <span class="at">data =</span> dat)</span>
+<span id="cb16-9"><a href="#cb16-9" aria-hidden="true" tabindex="-1"></a><span class="co">#Interpretasi Model</span></span>
+<span id="cb16-10"><a href="#cb16-10" aria-hidden="true" tabindex="-1"></a><span class="fu">summary</span>(model)</span></code><button title="Copy to Clipboard" class="code-copy-button"><i class="bi"></i></button></pre></div>
 <div class="cell-output cell-output-stdout">
 <pre><code>
 Call:
@@ -933,33 +977,33 @@ Residual standard error: 11.83 on 31 degrees of freedom
 Multiple R-squared:  0.07084,   Adjusted R-squared:  0.04086 
 F-statistic: 2.363 on 1 and 31 DF,  p-value: 0.1344</code></pre>
 </div>
-<div class="sourceCode cell-code" id="cb14"><pre class="sourceCode r code-with-copy"><code class="sourceCode r"><span id="cb14-1"><a href="#cb14-1" aria-hidden="true" tabindex="-1"></a><span class="co">#Visualisasi Data</span></span>
-<span id="cb14-2"><a href="#cb14-2" aria-hidden="true" tabindex="-1"></a><span class="fu">plot</span>(model)</span></code><button title="Copy to Clipboard" class="code-copy-button"><i class="bi"></i></button></pre></div>
+<div class="sourceCode cell-code" id="cb18"><pre class="sourceCode r code-with-copy"><code class="sourceCode r"><span id="cb18-1"><a href="#cb18-1" aria-hidden="true" tabindex="-1"></a><span class="co">#Visualisasi Data</span></span>
+<span id="cb18-2"><a href="#cb18-2" aria-hidden="true" tabindex="-1"></a><span class="fu">plot</span>(model)</span></code><button title="Copy to Clipboard" class="code-copy-button"><i class="bi"></i></button></pre></div>
 <div class="cell-output-display">
 <div>
 <figure class="figure">
-<p><img src="index_files/figure-html/unnamed-chunk-9-1.png" class="img-fluid figure-img" width="672"></p>
+<p><img src="index_files/figure-html/unnamed-chunk-11-1.png" class="img-fluid figure-img" width="672"></p>
 </figure>
 </div>
 </div>
 <div class="cell-output-display">
 <div>
 <figure class="figure">
-<p><img src="index_files/figure-html/unnamed-chunk-9-2.png" class="img-fluid figure-img" width="672"></p>
+<p><img src="index_files/figure-html/unnamed-chunk-11-2.png" class="img-fluid figure-img" width="672"></p>
 </figure>
 </div>
 </div>
 <div class="cell-output-display">
 <div>
 <figure class="figure">
-<p><img src="index_files/figure-html/unnamed-chunk-9-3.png" class="img-fluid figure-img" width="672"></p>
+<p><img src="index_files/figure-html/unnamed-chunk-11-3.png" class="img-fluid figure-img" width="672"></p>
 </figure>
 </div>
 </div>
 <div class="cell-output-display">
 <div>
 <figure class="figure">
-<p><img src="index_files/figure-html/unnamed-chunk-9-4.png" class="img-fluid figure-img" width="672"></p>
+<p><img src="index_files/figure-html/unnamed-chunk-11-4.png" class="img-fluid figure-img" width="672"></p>
 </figure>
 </div>
 </div>
@@ -968,15 +1012,15 @@ F-statistic: 2.363 on 1 and 31 DF,  p-value: 0.1344</code></pre>
 <section id="paslon-02-jokowi-jusuf-kalla-4" class="level5" data-number="4.3.2.2">
 <h5 data-number="4.3.2.2" class="anchored" data-anchor-id="paslon-02-jokowi-jusuf-kalla-4"><span class="header-section-number">4.3.2.2</span> Paslon 02 (Jokowi-Jusuf Kalla)</h5>
 <div class="cell">
-<div class="sourceCode cell-code" id="cb15"><pre class="sourceCode r code-with-copy"><code class="sourceCode r"><span id="cb15-1"><a href="#cb15-1" aria-hidden="true" tabindex="-1"></a><span class="fu">library</span>(<span class="st">'car'</span>)</span>
-<span id="cb15-2"><a href="#cb15-2" aria-hidden="true" tabindex="-1"></a><span class="fu">library</span>(<span class="st">'carData'</span>)</span>
-<span id="cb15-3"><a href="#cb15-3" aria-hidden="true" tabindex="-1"></a><span class="fu">library</span>(<span class="st">'readxl'</span>)</span>
-<span id="cb15-4"><a href="#cb15-4" aria-hidden="true" tabindex="-1"></a>dat<span class="ot">&lt;-</span><span class="fu">read_excel</span>(<span class="st">"C:/Users/yusri/Documents/UAS Metopel/data uas.xlsx"</span>)</span>
-<span id="cb15-5"><a href="#cb15-5" aria-hidden="true" tabindex="-1"></a></span>
-<span id="cb15-6"><a href="#cb15-6" aria-hidden="true" tabindex="-1"></a><span class="co">#Pemodelan Regresi</span></span>
-<span id="cb15-7"><a href="#cb15-7" aria-hidden="true" tabindex="-1"></a>model <span class="ot">&lt;-</span> <span class="fu">lm</span>(JkwJk <span class="sc">~</span> Edu, <span class="at">data =</span> dat)</span>
-<span id="cb15-8"><a href="#cb15-8" aria-hidden="true" tabindex="-1"></a><span class="co">#Interpretasi Model</span></span>
-<span id="cb15-9"><a href="#cb15-9" aria-hidden="true" tabindex="-1"></a><span class="fu">summary</span>(model)</span></code><button title="Copy to Clipboard" class="code-copy-button"><i class="bi"></i></button></pre></div>
+<div class="sourceCode cell-code" id="cb19"><pre class="sourceCode r code-with-copy"><code class="sourceCode r"><span id="cb19-1"><a href="#cb19-1" aria-hidden="true" tabindex="-1"></a><span class="fu">library</span>(<span class="st">'car'</span>)</span>
+<span id="cb19-2"><a href="#cb19-2" aria-hidden="true" tabindex="-1"></a><span class="fu">library</span>(<span class="st">'carData'</span>)</span>
+<span id="cb19-3"><a href="#cb19-3" aria-hidden="true" tabindex="-1"></a><span class="fu">library</span>(<span class="st">'readxl'</span>)</span>
+<span id="cb19-4"><a href="#cb19-4" aria-hidden="true" tabindex="-1"></a>dat<span class="ot">&lt;-</span><span class="fu">read_excel</span>(<span class="st">"C:/Users/yusri/Documents/UAS Metopel/data uas.xlsx"</span>)</span>
+<span id="cb19-5"><a href="#cb19-5" aria-hidden="true" tabindex="-1"></a></span>
+<span id="cb19-6"><a href="#cb19-6" aria-hidden="true" tabindex="-1"></a><span class="co">#Pemodelan Regresi</span></span>
+<span id="cb19-7"><a href="#cb19-7" aria-hidden="true" tabindex="-1"></a>model <span class="ot">&lt;-</span> <span class="fu">lm</span>(JkwJk <span class="sc">~</span> Edu, <span class="at">data =</span> dat)</span>
+<span id="cb19-8"><a href="#cb19-8" aria-hidden="true" tabindex="-1"></a><span class="co">#Interpretasi Model</span></span>
+<span id="cb19-9"><a href="#cb19-9" aria-hidden="true" tabindex="-1"></a><span class="fu">summary</span>(model)</span></code><button title="Copy to Clipboard" class="code-copy-button"><i class="bi"></i></button></pre></div>
 <div class="cell-output cell-output-stdout">
 <pre><code>
 Call:
@@ -997,33 +1041,33 @@ Residual standard error: 11.83 on 31 degrees of freedom
 Multiple R-squared:  0.07084,   Adjusted R-squared:  0.04086 
 F-statistic: 2.363 on 1 and 31 DF,  p-value: 0.1344</code></pre>
 </div>
-<div class="sourceCode cell-code" id="cb17"><pre class="sourceCode r code-with-copy"><code class="sourceCode r"><span id="cb17-1"><a href="#cb17-1" aria-hidden="true" tabindex="-1"></a><span class="co">#Visualisasi Data</span></span>
-<span id="cb17-2"><a href="#cb17-2" aria-hidden="true" tabindex="-1"></a><span class="fu">plot</span>(model)</span></code><button title="Copy to Clipboard" class="code-copy-button"><i class="bi"></i></button></pre></div>
+<div class="sourceCode cell-code" id="cb21"><pre class="sourceCode r code-with-copy"><code class="sourceCode r"><span id="cb21-1"><a href="#cb21-1" aria-hidden="true" tabindex="-1"></a><span class="co">#Visualisasi Data</span></span>
+<span id="cb21-2"><a href="#cb21-2" aria-hidden="true" tabindex="-1"></a><span class="fu">plot</span>(model)</span></code><button title="Copy to Clipboard" class="code-copy-button"><i class="bi"></i></button></pre></div>
 <div class="cell-output-display">
 <div>
 <figure class="figure">
-<p><img src="index_files/figure-html/unnamed-chunk-10-1.png" class="img-fluid figure-img" width="672"></p>
+<p><img src="index_files/figure-html/unnamed-chunk-12-1.png" class="img-fluid figure-img" width="672"></p>
 </figure>
 </div>
 </div>
 <div class="cell-output-display">
 <div>
 <figure class="figure">
-<p><img src="index_files/figure-html/unnamed-chunk-10-2.png" class="img-fluid figure-img" width="672"></p>
+<p><img src="index_files/figure-html/unnamed-chunk-12-2.png" class="img-fluid figure-img" width="672"></p>
 </figure>
 </div>
 </div>
 <div class="cell-output-display">
 <div>
 <figure class="figure">
-<p><img src="index_files/figure-html/unnamed-chunk-10-3.png" class="img-fluid figure-img" width="672"></p>
+<p><img src="index_files/figure-html/unnamed-chunk-12-3.png" class="img-fluid figure-img" width="672"></p>
 </figure>
 </div>
 </div>
 <div class="cell-output-display">
 <div>
 <figure class="figure">
-<p><img src="index_files/figure-html/unnamed-chunk-10-4.png" class="img-fluid figure-img" width="672"></p>
+<p><img src="index_files/figure-html/unnamed-chunk-12-4.png" class="img-fluid figure-img" width="672"></p>
 </figure>
 </div>
 </div>
@@ -1038,23 +1082,23 @@ F-statistic: 2.363 on 1 and 31 DF,  p-value: 0.1344</code></pre>
 <h3 data-number="5.1" class="anchored" data-anchor-id="paslon-01-prabowo-hatta-5"><span class="header-section-number">5.1</span> Paslon 01 (Prabowo-Hatta)</h3>
 <ol type="1">
 <li><p>Dengan menggunakan metode kedua, Tiap indeks pendidikan naik 1 poin, Maka Persentase Perolehan suara Prabowo-Hatta akan naik 65.9%.</p></li>
-<li><p>Koefisien Regresi: Koefisien regresi untuk variabel Edu adalah 0.6590. Ini berarti bahwa untuk setiap peningkatan satu unit dalam Indeks Pendidikan, kita dapat mengharapkan peningkatan sebesar 0.6590 unit dalam persentase suara pilpres calon Prabowo-Hatta, asumsi variabel lain tetap.</p></li>
-<li><p>Signifikansi Statistik: Nilai p untuk variabel Edu adalah 0.134, yang lebih besar dari ambang batas umum 0.05. Ini menunjukkan bahwa Indeks Pendidikan tidak memiliki pengaruh yang signifikan terhadap persentase suara pilpres calon Prabowo-Hatta pada tingkat kepercayaan 95%.</p></li>
-<li><p>R-squared: Nilai R-squared adalah 0.07084, yang berarti bahwa model ini menjelaskan sekitar 7.1% variasi dalam persentase suara pilpres calon Prabowo-Hatta. Nilai ini cukup rendah, menunjukkan bahwa model ini mungkin tidak menjelaskan variasi dalam persentase suara pilpres calon Prabowo-Hatta dengan baik.</p></li>
-<li><p>Residuals: Residuals adalah perbedaan antara nilai yang diamati dan nilai yang diprediksi oleh model. Dalam hal ini, residuals berkisar antara -17.648 dan 29.227, menunjukkan bahwa model ini memiliki beberapa kesalahan prediksi yang cukup besar.</p></li>
+<li><p>Koefisien Regresi: Koefisien regresi untuk variabel Edu adalah 0.6590, yang mengindikasikan bahwa setiap peningkatan satu unit dalam Indeks Pendidikan diikuti dengan peningkatan sekitar 0.6590 unit dalam persentase suara pemilihan presiden untuk pasangan calon Prabowo-Hatta, dengan asumsi variabel lainnya tetap konstan.</p></li>
+<li><p>Signifikansi Statistik: P-value untuk variabel Edu adalah 0.134, melebihi ambang batas umum 0.05. Hal ini menandakan bahwa Indeks Pendidikan tidak memiliki dampak yang signifikan pada persentase suara pemilihan presiden untuk pasangan calon Prabowo-Hatta pada tingkat kepercayaan 95%</p></li>
+<li><p>R-squared: R-squared yang diperoleh sebesar 0.07084, mengindikasikan bahwa model ini mampu menjelaskan sekitar 7.1% dari variasi dalam persentase suara pemilihan presiden untuk pasangan calon Prabowo-Hatta. Angka ini tergolong rendah, menunjukkan bahwa model ini mungkin tidak mampu dengan baik menjelaskan variasi dalam persentase suara pemilihan presiden untuk calon Prabowo-Hatta</p></li>
+<li><p>Residuals: Residuals merujuk pada selisih antara nilai yang diamati dan nilai yang diprediksi oleh model. Dalam konteks ini, nilai residuals berada dalam rentang antara -17.648 dan 29.227, menandakan bahwa model ini menghasilkan beberapa kesalahan prediksi yang cukup besar.</p></li>
 </ol>
-<p>Secara keseluruhan, hasil ini menunjukkan bahwa, berdasarkan data yang digunakan dalam analisis ini, Indeks Pendidikan tampaknya tidak memiliki pengaruh yang signifikan terhadap persentase suara pilpres calon Prabowo-Hatta. Namun, perlu diingat bahwa ini adalah hasil dari satu analisis dan mungkin perlu penelitian lebih lanjut untuk konfirmasi.</p>
+<p>Secara keseluruhan, meskipun terdapat korelasi positif antara Indeks Pendidikan dan persentase suara, model ini memiliki tingkat penjelasan yang rendah, dan Indeks Pendidikan tidak signifikan secara statistik dalam memprediksi persentase suara pemilihan presiden untuk pasangan calon Prabowo-Hatta.</p>
 </section>
 <section id="paslon-02-jokowi-jk" class="level3" data-number="5.2">
 <h3 data-number="5.2" class="anchored" data-anchor-id="paslon-02-jokowi-jk"><span class="header-section-number">5.2</span> Paslon 02 (Jokowi-JK)</h3>
 <ol type="1">
 <li><p>Dengan menggunakan metode kedua, Tiap indeks pendidikan naik 1 poin, Maka Persentase Perolehan suara Jokowi-Jusuf Kalla akan turun sebesar 65.9%.</p></li>
-<li><p>Koefisien Regresi: Koefisien regresi untuk variabel Edu adalah -0.6590. Ini berarti bahwa untuk setiap peningkatan satu unit dalam Indeks Pendidikan, kita dapat mengharapkan penurunan sebesar 0.6590 unit dalam persentase suara pilpres calon Jokowi-Jusuf Kalla, asumsi variabel lain tetap.</p></li>
-<li><p>Signifikansi Statistik: Nilai p untuk variabel Edu adalah 0.134, yang lebih besar dari ambang batas umum 0.05. Ini menunjukkan bahwa Indeks Pendidikan tidak memiliki pengaruh yang signifikan terhadap persentase suara pilpres calon Jokowi-Jusuf Kalla pada tingkat kepercayaan 95%.</p></li>
-<li><p>R-squared: Nilai R-squared adalah 0.07084, yang berarti bahwa model ini menjelaskan sekitar 7.1% variasi dalam persentase suara pilpres calon Jokowi-Jusuf Kalla. Nilai ini cukup rendah, menunjukkan bahwa model ini mungkin tidak menjelaskan variasi dalam persentase suara pilpres calon Jokowi-Jusuf Kalla dengan baik</p></li>
-<li><p>Residuals: Residuals adalah perbedaan antara nilai yang diamati dan nilai yang diprediksi oleh model. Dalam hal ini, residuals berkisar antara -29.227 dan 17.648, menunjukkan bahwa model ini memiliki beberapa kesalahan prediksi yang cukup besar.</p></li>
+<li><p>Koefisien Regresi: Koefisien regresi untuk variabel Edu adalah -0.6590, yang mengindikasikan bahwa setiap peningkatan satu unit dalam Indeks Pendidikan diikuti oleh penurunan sekitar 0.6590 unit dalam persentase suara pemilihan presiden untuk pasangan calon Jokowi-Jusuf Kalla, dengan asumsi variabel lainnya tetap konstan.</p></li>
+<li><p>Signifikansi Statistik: P-value untuk variabel Edu adalah 0.134, melebihi ambang batas umum 0.05. Dengan demikian, dapat disimpulkan bahwa Indeks Pendidikan tidak berpengaruh secara signifikan terhadap persentase suara pemilihan presiden untuk pasangan calon Jokowi-Jusuf Kalla pada tingkat kepercayaan 95%.</p></li>
+<li><p>R-squared: R-squared yang diperoleh sebesar 0.07084, mengindikasikan bahwa model ini mampu menjelaskan sekitar 7.1% dari variasi dalam persentase suara pemilihan presiden untuk pasangan calon Jokowi-Jusuf Kalla. Angka ini tergolong rendah, menunjukkan bahwa model ini mungkin tidak cukup baik dalam menjelaskan variasi dalam persentase suara pemilihan presiden untuk pasangan calon Jokowi-Jusuf Kalla.</p></li>
+<li><p>Residuals: Residuals merujuk pada selisih antara nilai yang diamati dan nilai yang diprediksi oleh model. Dalam konteks ini, nilai residuals berada dalam rentang antara -29.227 dan 17.648, menunjukkan bahwa model ini menghasilkan beberapa kesalahan prediksi yang cukup besar.</p></li>
 </ol>
-<p>Secara keseluruhan, hasil ini menunjukkan bahwa, berdasarkan data yang digunakan dalam analisis ini, Indeks Pendidikan tampaknya tidak memiliki pengaruh yang signifikan terhadap persentase suara pilpres calon Jokowi-Jusuf Kalla. Namun, perlu diingat bahwa ini adalah hasil dari satu analisis dan mungkin perlu penelitian lebih lanjut untuk konfirmasi.</p>
+<p>Secara keseluruhan, dapat diambil kesimpulan bahwa Indeks Pendidikan tidak signifikan dalam memprediksi persentase suara pemilihan presiden untuk pasangan calon Jokowi-Jusuf Kalla. Model yang digunakan juga memiliki tingkat penjelasan yang rendah dan menghasilkan beberapa kesalahan prediksi yang signifikan. Namun, perlu diingat bahwa ini adalah hasil dari satu analisis dan mungkin perlu penelitian lebih lanjut untuk konfirmasi.</p>
 </section>
 <section id="kesimpulan-akhir" class="level3" data-number="5.3">
 <h3 data-number="5.3" class="anchored" data-anchor-id="kesimpulan-akhir"><span class="header-section-number">5.3</span> Kesimpulan Akhir</h3>
